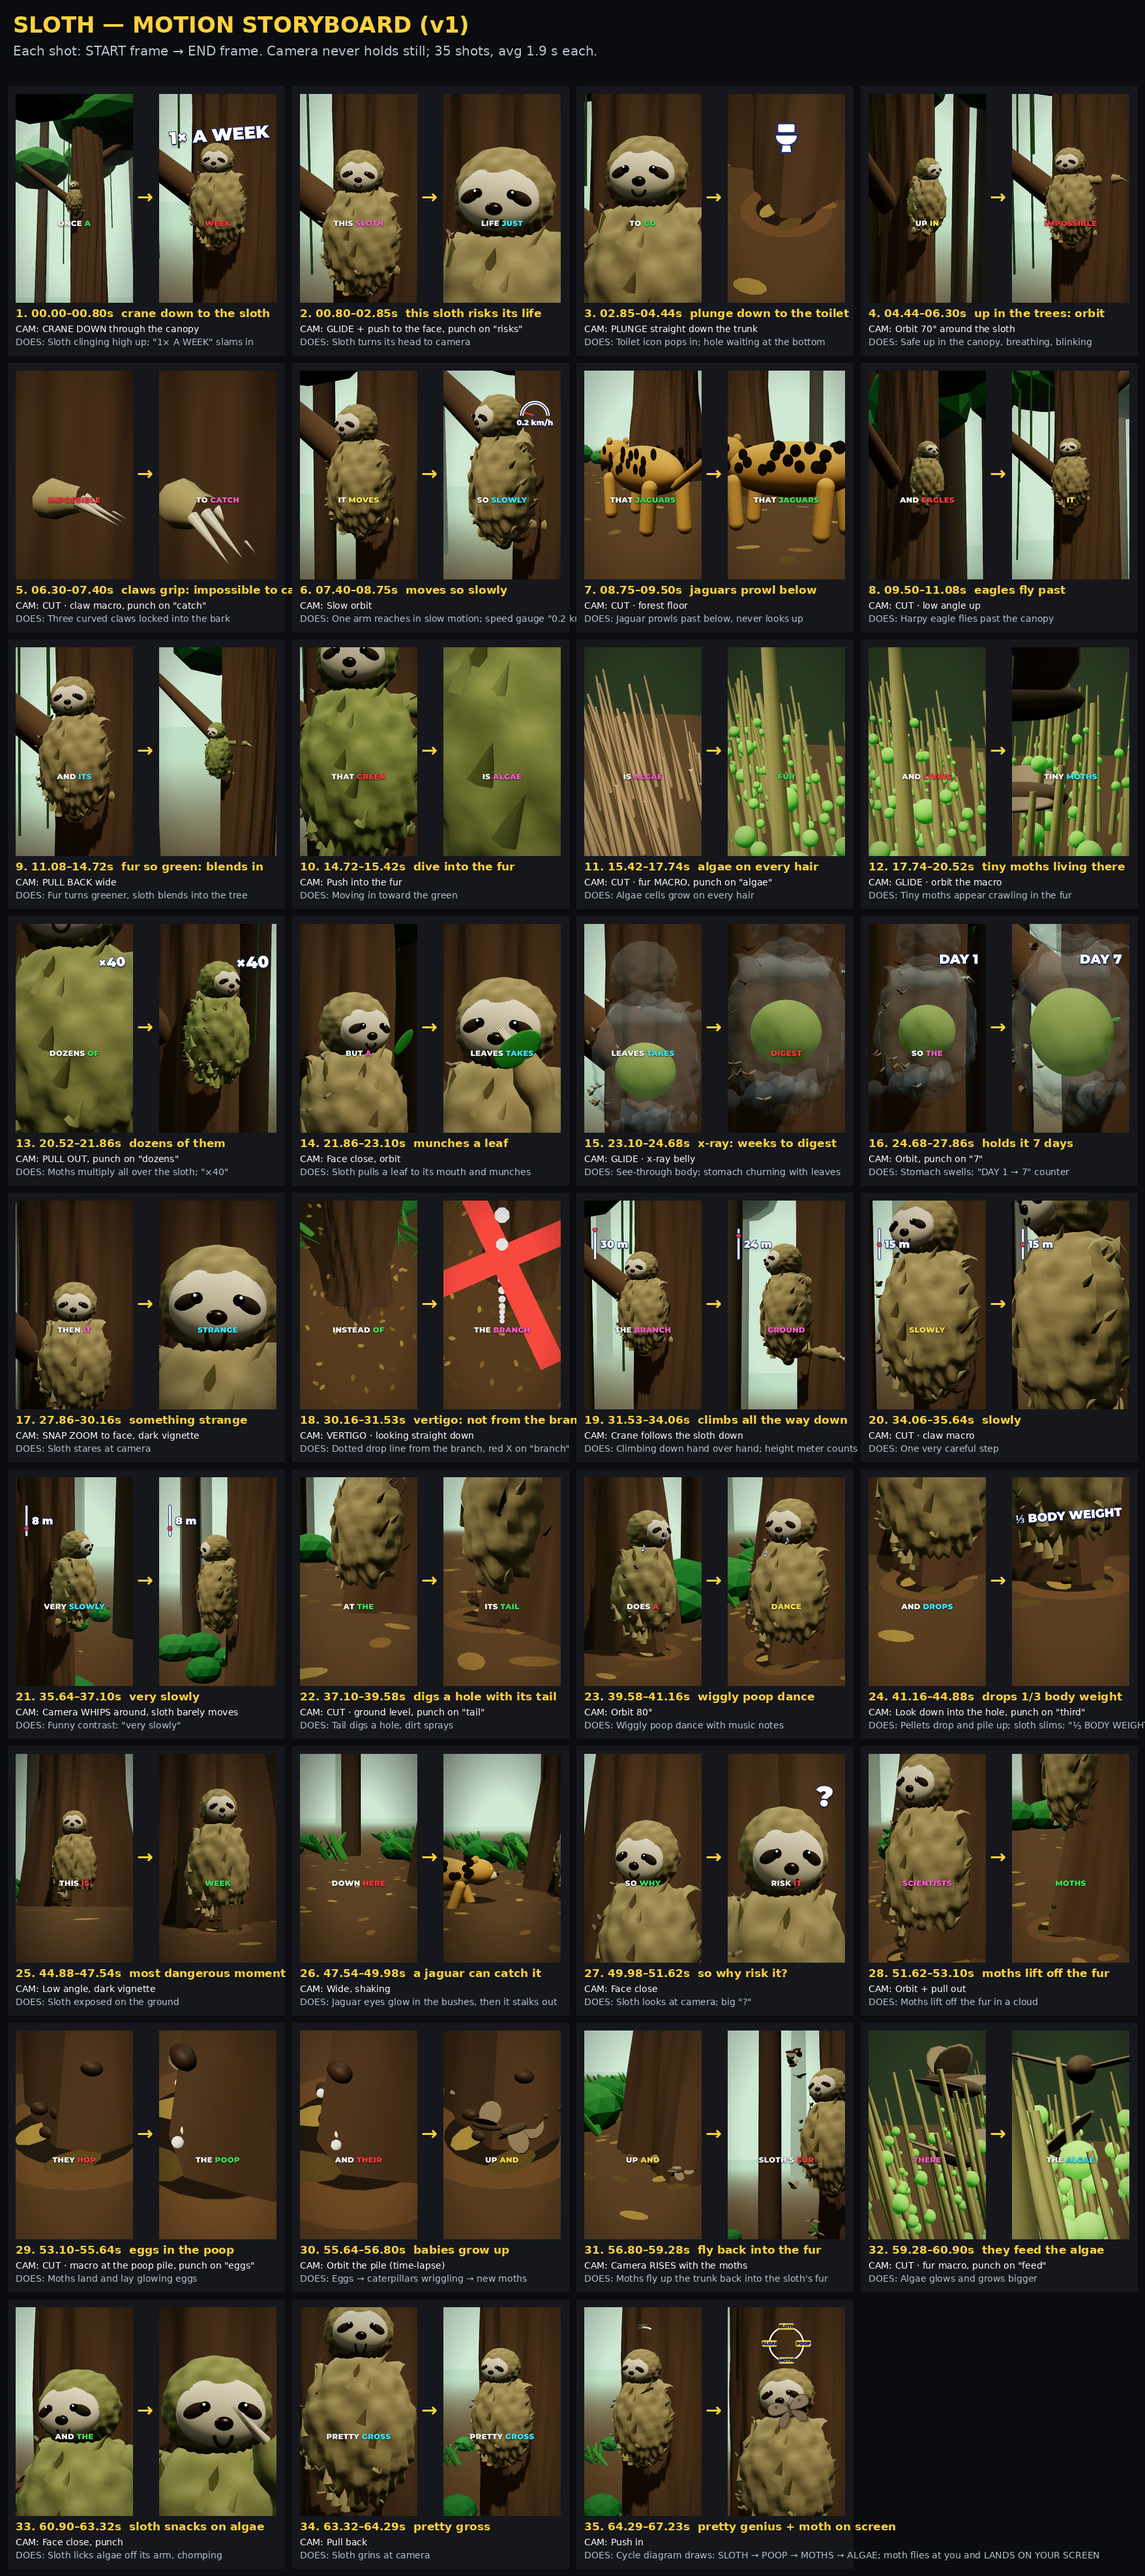
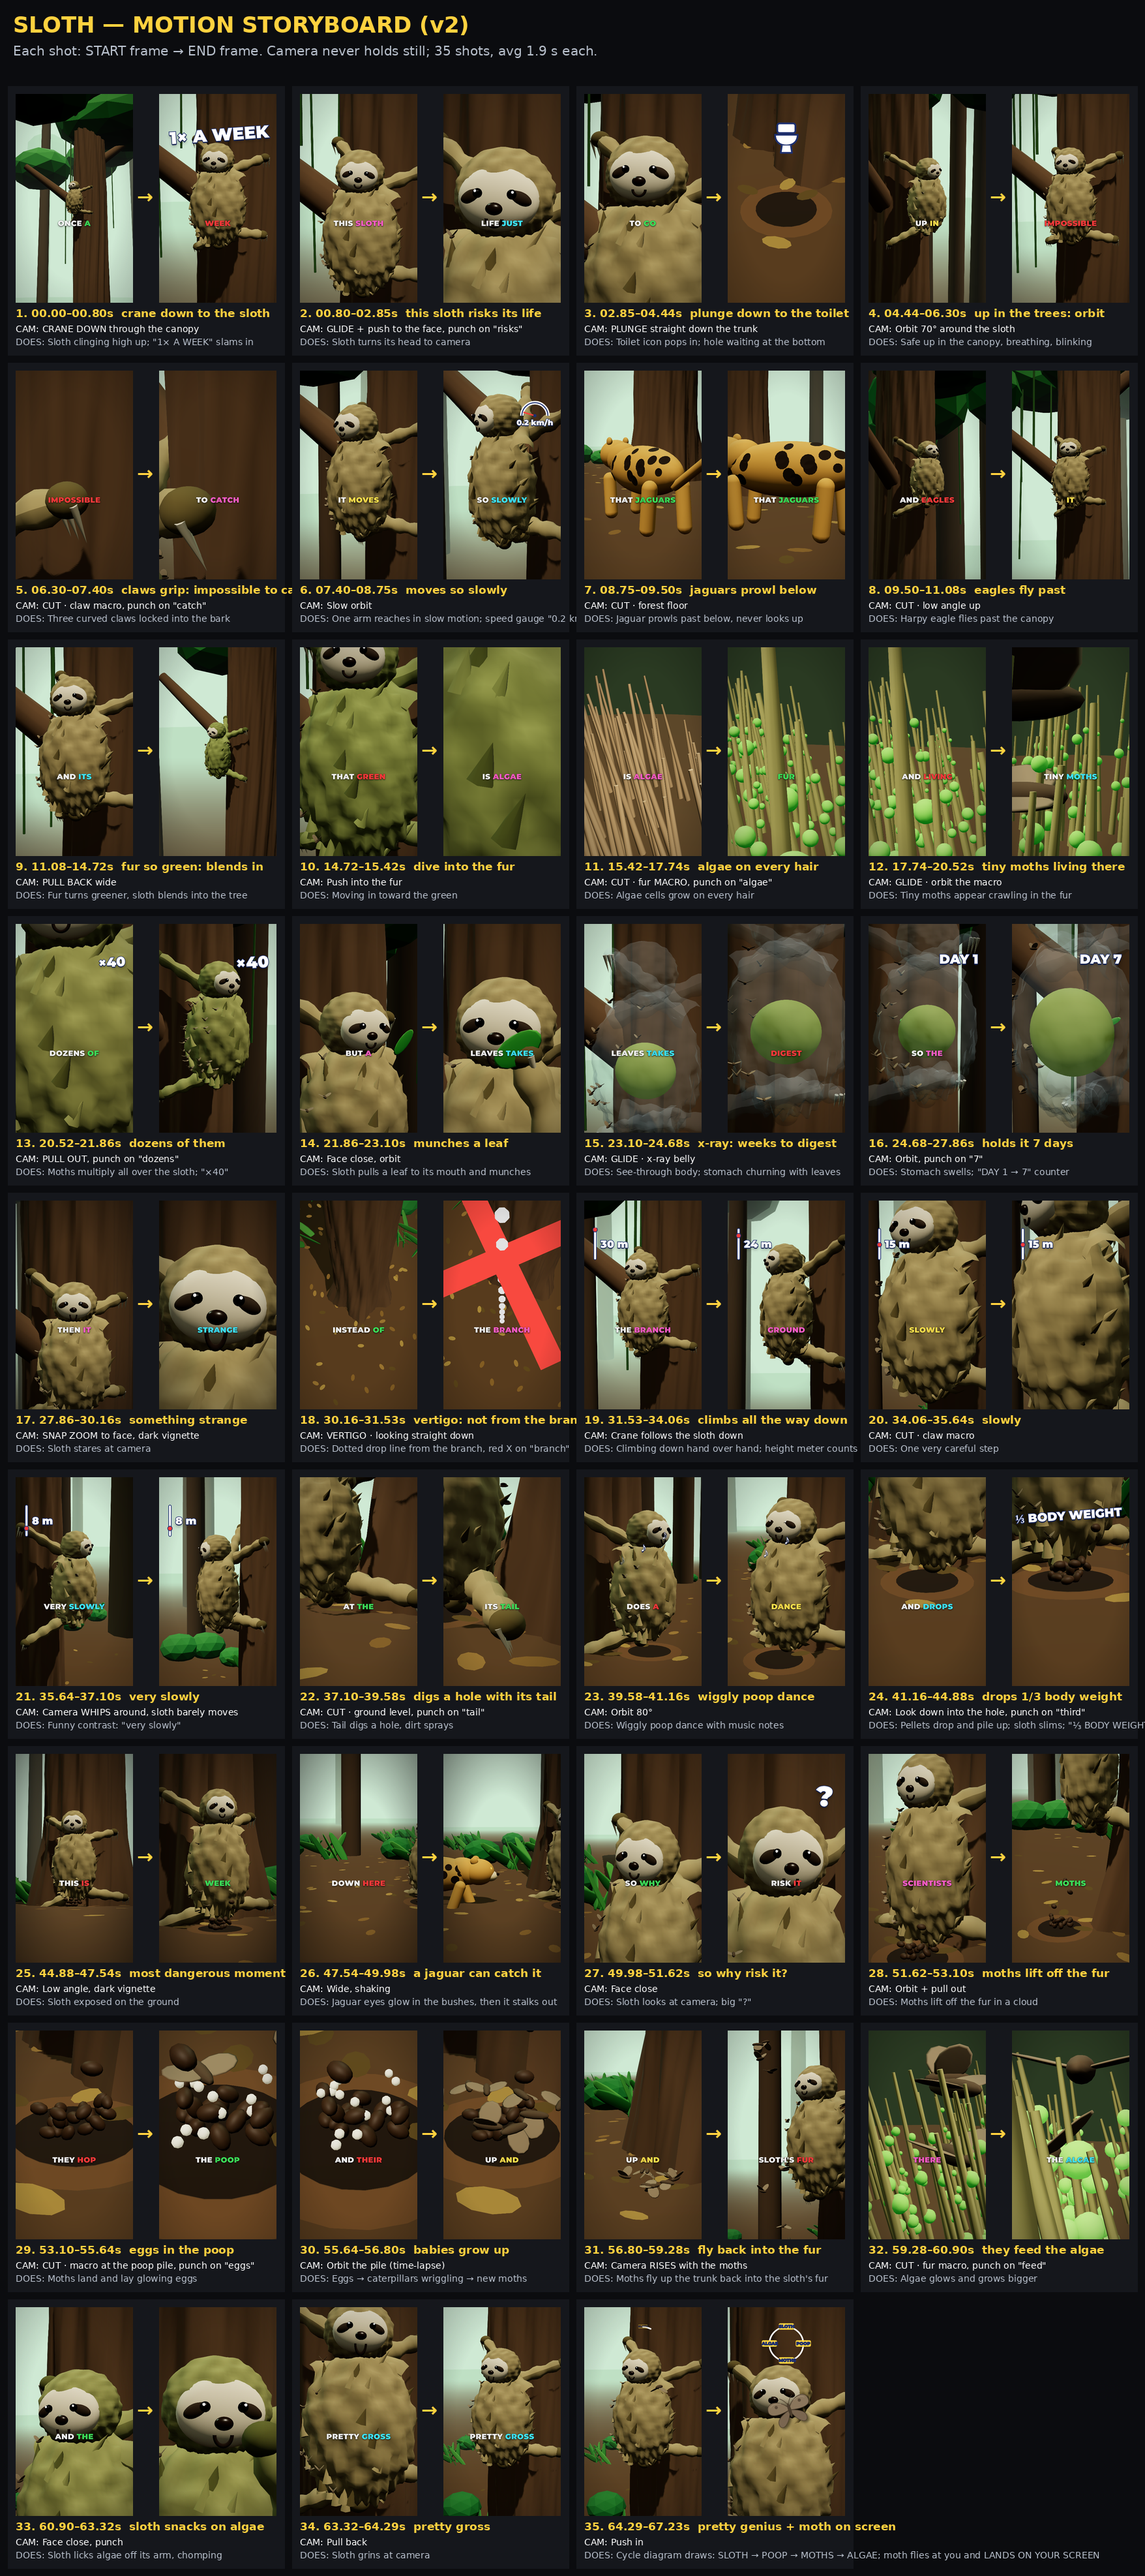
Sloth: grips follow the real trunk surface, paws + hooked claws, jaguar spots on the body
Claude-Session: https://claude.ai/code/session_01QVTU5LctK28B3kVP41sv1Z

diff --git a/remotion/src/sloth/model.tsx b/remotion/src/sloth/model.tsx
@@ -243,7 +243,13 @@ export const Sloth: React.FC<SlothPose> = ({
         return (
           <group key={i}>
             <Limb pts={[l.s, l.s.clone().lerp(e, 0.5).add(outward.clone().multiplyScalar(0.02)), e, e.clone().lerp(l.t, 0.5), l.t]} r0={l.r0} r1={l.r1} color={xray ? "#bfe6ff" : fur} opacity={op} />
-            <Claws at={l.t} dir={dir} color={COLS.claw} len={i < 2 ? 0.14 : 0.11} />
+            {/* rounded paw at the end of the limb */}
+            <mesh position={l.t} scale={[0.065, 0.055, 0.065]}>
+              <sphereGeometry args={[1, 16, 12]} />
+              <meshStandardMaterial key={xray ? "t" : "o"} color={xray ? "#bfe6ff" : furDark} roughness={1} transparent={!!xray} opacity={op} />
+            </mesh>
+            {/* claws hook over the bark: inward toward the trunk and down */}
+            <Claws at={l.t.clone().add(new THREE.Vector3(l.t.x, 0, l.t.z).normalize().multiplyScalar(0.03))} dir={new THREE.Vector3(-l.t.x, 0, -l.t.z).normalize().multiplyScalar(0.35).add(new THREE.Vector3(0, -0.6, 0)).add(new THREE.Vector3(l.t.z, 0, -l.t.x).normalize().multiplyScalar(0.25 * Math.sign(l.t.x || 1)))} color={COLS.claw} len={i < 2 ? 0.14 : 0.11} />
           </group>
         );
       })}
@@ -252,6 +258,14 @@ export const Sloth: React.FC<SlothPose> = ({
 };
 
 /** Grip targets on the trunk at a body height; climbing phase d (metres descended). */
+/** Outer radius of the trunk mesh at world height y (taper + bark bumps + root flare), so limbs sit ON the bark. */
+export const trunkR = (y: number) => {
+  const taper = TRUNK_R * (1.35 - 0.35 * (y / 30));
+  return taper * (1.07 + Math.max(0, 1.2 - y) * 0.35);
+};
+/** Distance of the sloth's body centre from the trunk axis. */
+export const slothZ = (y: number) => trunkR(y) + 0.3;
+
 export const trunkGrip = (bodyY: number, d: number, side = 1): { hands: [V3, V3]; feet: [V3, V3] } => {
   const stride = 0.34;
   const L = stride / 0.7;
@@ -264,16 +278,17 @@ export const trunkGrip = (bodyY: number, d: number, side = 1): { hands: [V3, V3]
       rel = stride * (0.5 - q);
       lift = Math.sin(q * Math.PI) * 0.12;
     }
-    const r = TRUNK_R + 0.03 + lift;
-    return [Math.sin(ang) * r * side, bodyY + base + rel, Math.cos(ang) * r];
+    const y = bodyY + base + rel;
+    const r = trunkR(y) + 0.035 + lift;
+    return [Math.sin(ang) * r * side, y, Math.cos(ang) * r];
   };
   return {
-    hands: [limb(0.42, 0.95, 0), limb(0.42, -0.95, 0.5)],
-    feet: [limb(-0.45, 0.85, 0.5), limb(-0.45, -0.85, 0)],
+    hands: [limb(0.72, 0.72, 0), limb(0.72, -0.72, 0.5)],
+    feet: [limb(-0.5, 0.7, 0.5), limb(-0.5, -0.7, 0)],
   };
 };
 /** Body placement for a sloth hugging the trunk (+z side) at height y. */
-export const onTrunk = (y: number): { pos: V3; rot: V3 } => ({ pos: [0, y, TRUNK_R + 0.32], rot: [0, Math.PI, 0] });
+export const onTrunk = (y: number): { pos: V3; rot: V3 } => ({ pos: [0, y, slothZ(y)], rot: [0, Math.PI, 0] });
 
 // ------------------------------------------------------------------ moth
 export const Moth: React.FC<{ pos: V3; flap: number; scale?: number; heading?: number }> = ({ pos, flap, scale = 1, heading = 0 }) => {
@@ -304,7 +319,7 @@ export const Rainforest: React.FC<{ t: number }> = ({ t }) => {
     for (let i = 0; i < p.count; i++) {
       const x = p.getX(i), y = p.getY(i), z = p.getZ(i);
       const a = Math.atan2(z, x);
-      const k = 1 + 0.05 * Math.sin(a * 13 + Math.sin(y * 0.8) * 2) + 0.02 * Math.sin(a * 37 + y * 3) + (y < -13 ? (-13 - y) * 0.25 * (0.5 + 0.5 * Math.sin(a * 5)) : 0);
+      const k = 1 + 0.05 * Math.sin(a * 13 + Math.sin(y * 0.8) * 2) + 0.02 * Math.sin(a * 37 + y * 3) + (y < -13.8 ? (-13.8 - y) * 0.35 * (0.5 + 0.5 * Math.sin(a * 5)) : 0);
       p.setX(i, x * k);
       p.setZ(i, z * k);
     }
@@ -410,7 +425,15 @@ export const Rainforest: React.FC<{ t: number }> = ({ t }) => {
 // ------------------------------------------------------------------ predators
 export const Jaguar: React.FC<{ pos: V3; heading: number; walk: number; crouch?: number; eyesOnly?: number }> = ({ pos, heading, walk, crouch = 0, eyesOnly = 0 }) => {
   const c = "#d9a043";
-  const spots = useMemo(() => Array.from({ length: 40 }, (_, i) => [(rnd(i, 1) - 0.5) * 1.2, 0.15 + rnd(i, 2) * 0.2, (rnd(i, 3) > 0.5 ? 1 : -1) * (0.2 + rnd(i, 4) * 0.06)] as V3), []);
+  // rosettes on the ellipsoid body surface (radii 0.65, 0.24, 0.22 centred at y 0.55), oriented along the surface normal
+  const spots = useMemo(() => Array.from({ length: 46 }, (_, i) => {
+    const u = (rnd(i, 1) - 0.5) * 1.7; // along the body
+    const ph = (rnd(i, 2) - 0.5) * Math.PI * 1.5 + (rnd(i, 3) > 0.5 ? 0 : Math.PI); // around it (skip the belly)
+    const s = Math.sqrt(Math.max(0, 1 - u * u));
+    const p = new THREE.Vector3(0.65 * u, 0.55 + 0.24 * Math.cos(ph) * s, 0.22 * Math.sin(ph) * s);
+    const n = new THREE.Vector3(u / 0.65, (Math.cos(ph) * s) / 0.24, (Math.sin(ph) * s) / 0.22).normalize();
+    return { p: p.add(n.clone().multiplyScalar(0.004)), q: new THREE.Quaternion().setFromUnitVectors(new THREE.Vector3(0, 0, 1), n), r: 0.035 + rnd(i, 4) * 0.025 };
+  }).filter((sp) => sp.p.y > 0.42), []);
   if (eyesOnly > 0.5) {
     return (
       <group position={pos} rotation={[0, heading, 0]}>
@@ -427,12 +450,14 @@ export const Jaguar: React.FC<{ pos: V3; heading: number; walk: number; crouch?:
   return (
     <group position={[pos[0], pos[1] - crouch * 0.15, pos[2]]} rotation={[0, heading, 0]}>
       <Ell pos={[0, 0.55, 0]} r={[0.65, 0.24, 0.22]} color={c} />
-      {spots.map((s, i) => (
-        <mesh key={i} position={[s[0], 0.55 + s[1] - 0.15, s[2]]} scale={[0.05, 0.05, 0.01]} rotation={[0, s[2] > 0 ? 0 : Math.PI, 0]}>
-          <sphereGeometry args={[1, 8, 6]} />
-          <meshStandardMaterial color="#2a1a0a" />
+      {spots.map((sp, i) => (
+        <mesh key={i} position={sp.p} quaternion={sp.q}>
+          <circleGeometry args={[sp.r, 14]} />
+          <meshStandardMaterial color="#2a1a0a" roughness={0.9} />
         </mesh>
       ))}
+      {/* neck joining head and body */}
+      <Ell pos={[0.5, 0.64 - crouch * 0.05, 0]} r={[0.22, 0.17, 0.16]} rot={[0, 0, -0.4]} color={c} />
       {/* head */}
       <group position={[0.68, 0.68 - crouch * 0.1, 0]}>
         <Ell pos={[0, 0, 0]} r={[0.2, 0.17, 0.18]} color={c} />

diff --git a/remotion/src/sloth/Video.tsx b/remotion/src/sloth/Video.tsx
@@ -6,7 +6,7 @@ import * as THREE from "three";
 import rawWords from "../data/sloth_words.json";
 import { Captions, fontFamily } from "../wp/captions";
 import {
-  DirtSpray, Eagle, FurMacro, Hole, Jaguar, MACRO, Moth, MothLife, Poop, Rainforest, Sloth, SlothPose, TRUNK_R, V3, clamp01, onTrunk, rnd, trunkGrip,
+  DirtSpray, Eagle, FurMacro, Hole, Jaguar, MACRO, Moth, MothLife, Poop, Rainforest, Sloth, SlothPose, TRUNK_R, V3, clamp01, onTrunk, rnd, slothZ, trunkGrip,
 } from "./model";
 
 export const FPS = 30;
@@ -61,10 +61,12 @@ const specPos = (s: Spec): V3 => {
 // sloth focus points for a body height y
 const TOP = 9.0;
 const BOT = 0.55;
-const BODY = (y: number): V3 => [0, y + 0.1, TRUNK_R + 0.32];
-const FACE = (y: number): V3 => [0, y + 0.55, TRUNK_R + 0.4];
-const HOLE: V3 = [0, 0, TRUNK_R + 0.42];
-const BELLY = (y: number): V3 => [0, y, TRUNK_R + 0.32];
+const BODY = (y: number): V3 => [0, y + 0.1, slothZ(y)];
+const FACE = (y: number): V3 => [0, y + 0.55, slothZ(y) + 0.08];
+const clawAt = (y: number): V3 => { const r = trunkGripR(y + 0.72); return [Math.sin(0.72) * r, y + 0.72, Math.cos(0.72) * r]; };
+const trunkGripR = (y: number) => slothZ(y) - 0.3 + 0.035;
+const HOLE: V3 = [0, 0, slothZ(0.55) + 0.1];
+const BELLY = (y: number): V3 => [0, y, slothZ(y)];
 
 // ---------------------------------------------------------------- sloth pose helpers
 type Extra = Partial<SlothPose>;
@@ -79,7 +81,7 @@ const idle = (t: number, y: number, extra: Extra = {}) => pose(t, y, 0.05 * Math
 /** hand brought to the mouth (eating) */
 const eating = (t: number, y: number, k: number, extra: Extra = {}) => {
   const p = idle(t, y, extra);
-  const mouth: V3 = [0.12, y + 0.48, TRUNK_R + 0.62];
+  const mouth: V3 = [0.12, y + 0.48, slothZ(y) + 0.3];
   p.hands = [p.hands[0], lerp3(p.hands[1], mouth, k)];
   return p;
 };
@@ -112,7 +114,7 @@ const SHOTS: Shot[] = [
   // ---------- SAFE IN THE TREES
   { name: "up in the trees: orbit the sloth", t: cue.upTrees, a: S(BODY(TOP), 5.5, -40, 10), b: S(BODY(TOP), 4.4, 30, 4),
     world: ({ t }) => ({ sloth: idle(t, TOP) }) },
-  { name: "impossible to catch: claws grip tight (macro)", t: cue.catch1 - 0.5, a: S([0.43, TOP + 0.42, 0.33], 1.1, 55, 10), b: S([0.43, TOP + 0.42, 0.33], 0.85, 85, 16), punch: [cue.catch1],
+  { name: "impossible to catch: claws grip tight (macro)", t: cue.catch1 - 0.5, a: S(clawAt(TOP), 1.1, 55, 10), b: S(clawAt(TOP), 0.85, 85, 16), punch: [cue.catch1],
     world: ({ t }) => ({ sloth: idle(t, TOP) }) },
   { name: "it moves so slowly: one arm reaches in slow motion", t: cue.moves, a: S(BODY(TOP), 3.2, 50, 4), b: S(BODY(TOP), 2.8, 70, 6),
     world: ({ t }) => ({ sloth: pose(t, TOP, 0.12 * ramp(t, cue.moves, 2.0)) }),
@@ -139,7 +141,7 @@ const SHOTS: Shot[] = [
   // ---------- DIGESTION
   { name: "a diet of leaves: sloth munches a leaf", t: cue.diet, a: S(FACE(TOP), 1.9, -25, 4), b: S(FACE(TOP), 1.3, 15, 2),
     world: ({ t }) => ({ sloth: eating(t, TOP, ramp(t, cue.diet, 0.6), { mouth: Math.abs(Math.sin(t * 9)) * ramp(t, cue.leaves, 0.2), look: 0.8 }),
-      extra: <Leaf pos={[0.12, TOP + 0.5, TRUNK_R + 0.68]} t={t} bite={ramp(t, cue.leaves, 1.0)} /> }) },
+      extra: <Leaf pos={[0.12, TOP + 0.5, slothZ(TOP) + 0.36]} t={t} bite={ramp(t, cue.leaves, 1.0)} /> }) },
   { name: "takes weeks to digest (x-ray stomach churning)", t: cue.takes, a: S(BELLY(TOP), 2.6, 30, 4), b: S(BELLY(TOP), 1.8, -10, 4), glide: 0.25,
     world: ({ t }) => ({ sloth: idle(t, TOP, { xray: true, stomach: 0.3 }) }) },
   { name: "holds it in for 7 days (day counter, stomach swells)", t: cue.holds, a: S(BELLY(TOP), 2.2, -20, 6), b: S(BELLY(TOP), 1.7, 45, 8), punch: [cue.seven],
